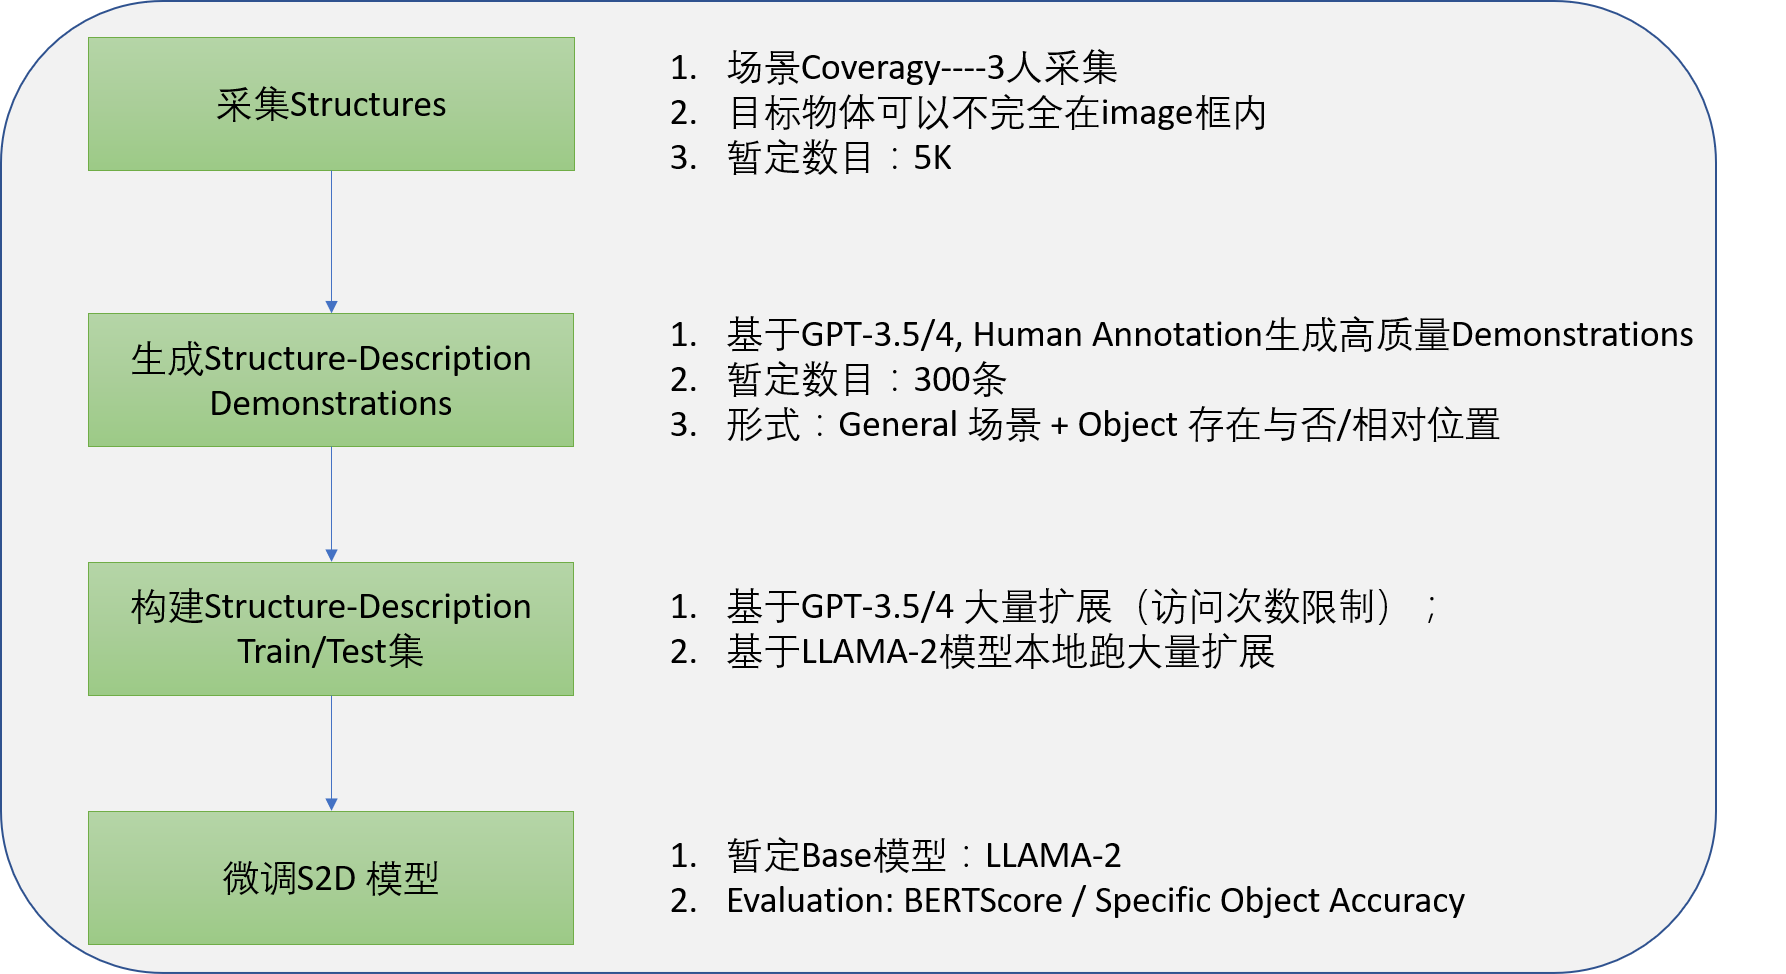
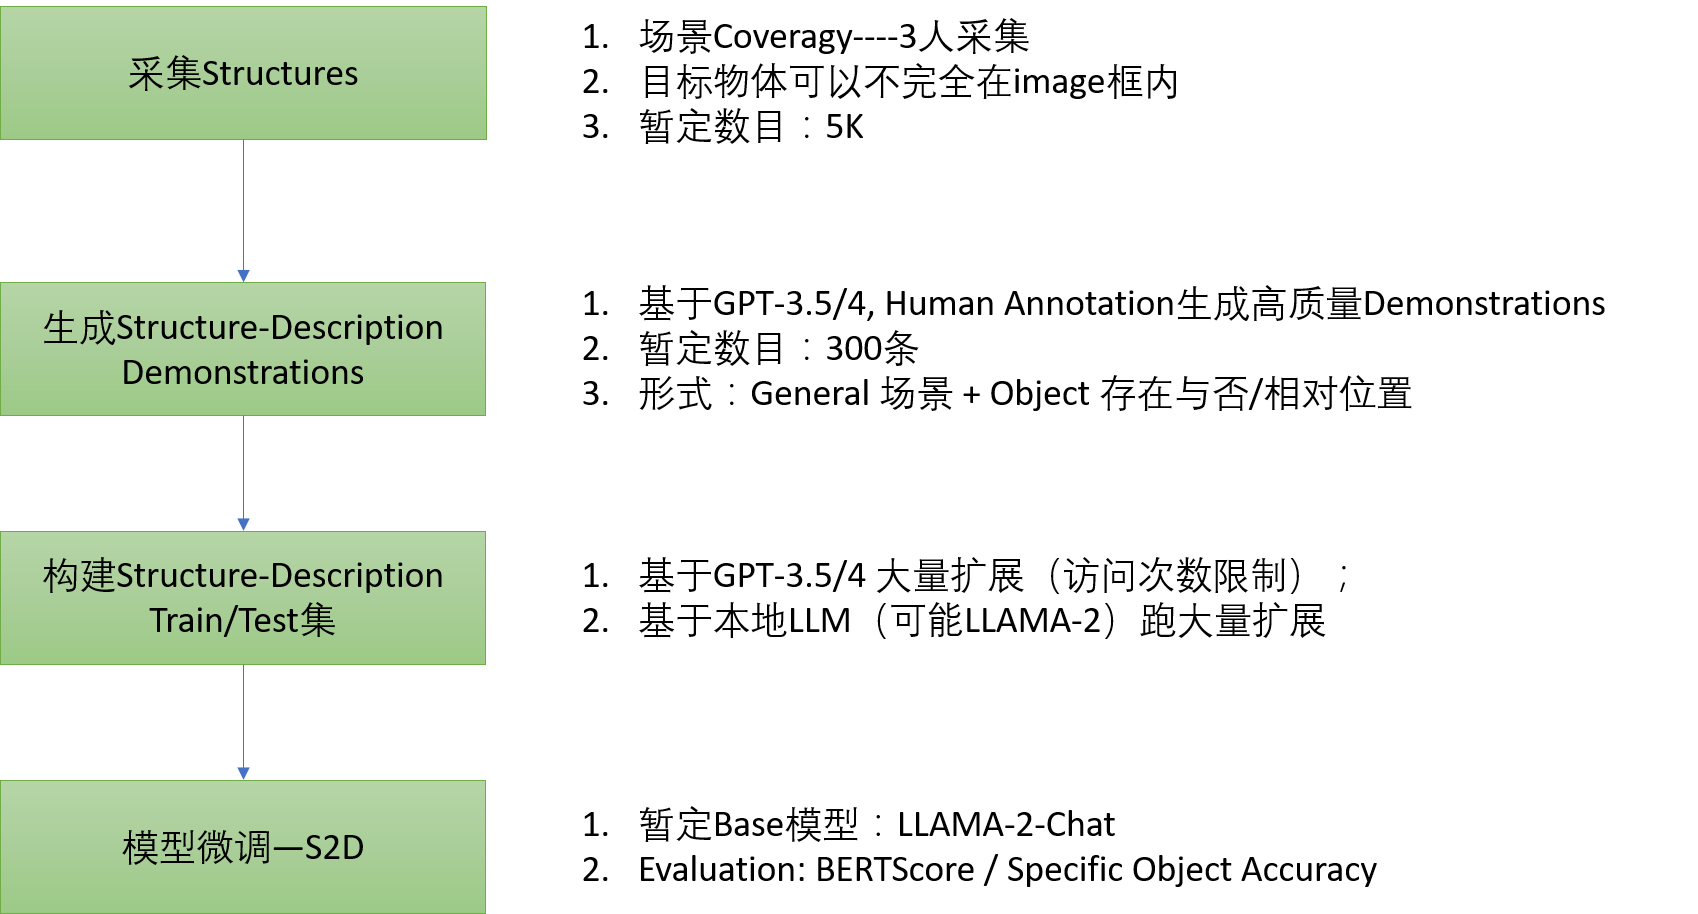
update

diff --git a/Plan.md b/Plan.md
@@ -7,10 +7,12 @@
 从硬件资源、数据资源，模型以及算法，应用场景的分层角度出发，整个Pipeline的Framework如下图所示：
 ![Framework](./figs/Framework.png)
 现有资源包括Hardware, LLM(开源或API)，需在此基础上搭建数据、算法以及应用模块。
-### 3. Data-数据构建
-与CV与NLP独立的pipeline设计相适配，同时构建纯text模态也更方便获取大规模的数据，在数据构建这一子任务中，有两类数据需要构建，目标是构建1k~10k量级。
-#### 3.1 Strcuture2Description (S2D)
-该部分数据构建相对要求低，主要挑战在于***采集足够数量的Structures***。
+
+需要注意的是，由于LLM具备多任务的能力，同时为了在硬件资源受限的情况下启动系统，S2D，D2G两个模块最后是***在一个模型上***实现，通过不同的instruction prompt获得结果，暂定Base模型为***LLaMA-2-Chat***.
+### 3 Strcuture2Description (S2D)
+S2D部分数据构建相对要求低，主要挑战在于***采集足够数量的Structures***。
+当获取足量Structures之后，基于GPT或本地LLM大量扩展获取Descriptions。
+最后对LLAMA-2-Chat进行模型微调。
 ![S2D](./figs/S2D.png)
 #### 3.1 Description2Guidance (D2G)
 该部分数据构建相对困难，当前Description可能没有深度信息，在构建Guidance时，可能先用人工撰写的触觉表述构建demonstrations，再基于GPT-3.5/4大量生成（耗时长），最后可能还需要过滤。
